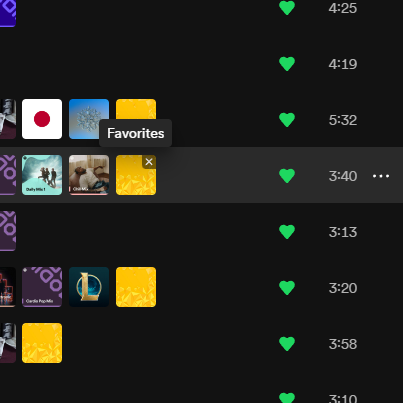
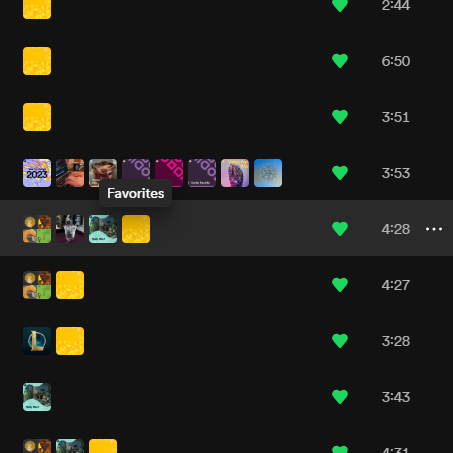
Add context menu for removing tracks and shrink labels

diff --git a/src/app.tsx b/src/app.tsx
@@ -1,7 +1,7 @@
 import React, { useState } from 'react';
 import ReactDOM from 'react-dom';
 import './app.css'
-import { getTrackUriToPlaylistData } from "./playlist";
+import { getTrackUriToPlaylistData, getAllPlaylists } from "./playlist";
 import { removeTrackFromPlaylist } from "./api";
 
 let originalTracklistHeaderCss = null;
@@ -12,6 +12,7 @@ let mainElementObserver = null;
 let tracklists = [];
 let oldTracklists = [];
 let trackUriToPlaylistData = {};
+let contents = null;
 let playlistUpdated = false;
 let highlightTrack = null;
 let highlightTrackPath = null;
@@ -84,21 +85,12 @@ function updateTracklist() {
                 }
             }
             if (!labelColumn) {
+
                 // Add column for labels
                 let lastColumn = track.querySelector(".main-trackList-rowSectionEnd");
                 let colIndexInt = parseInt(lastColumn.getAttribute("aria-colindex"));
                 lastColumn.setAttribute("aria-colindex", (colIndexInt + 1).toString());
                 labelColumn = document.createElement("div");
-
-                const iconData = '<svg xmlns="http://www.w3.org/2000/svg" height="1em" viewBox="0 0 384 512"><!--! Font Awesome Free 6.4.2 by @fontawesome - https://fontawesome.com License - https://fontawesome.com/license (Commercial License) Copyright 2023 Fonticons, Inc. --><path d="M342.6 150.6c12.5-12.5 12.5-32.8 0-45.3s-32.8-12.5-45.3 0L192 210.7 86.6 105.4c-12.5-12.5-32.8-12.5-45.3 0s-12.5 32.8 0 45.3L146.7 256 41.4 361.4c-12.5 12.5-12.5 32.8 0 45.3s32.8 12.5 45.3 0L192 301.3 297.4 406.6c12.5 12.5 32.8 12.5 45.3 0s12.5-32.8 0-45.3L237.3 256 342.6 150.6z"/></svg>';
-                const RemoveIcon = Spicetify.React.memo(() =>
-                    <Spicetify.ReactComponent.IconComponent semanticColor='textBase'
-                        dangerouslySetInnerHTML={{ __html: iconData }}
-                        width="14px"
-                        height="14px"
-                        viewBox='0 0 14 14'
-                    />
-                );
 
                 ReactDOM.render(
                     <div className="spicetify-playlist-labels-labels-container">
@@ -115,35 +107,19 @@ function updateTracklist() {
                                         placement="top"
                                     >
                                         <div className="spicetify-playlist-labels-label-container">
-                                            <img width="40px" style={{
+                                            <img width="28px" style={{
                                                 borderRadius: '4px',
                                                 cursor: 'pointer'
                                             }} src={playlistData.image} onClick={(e: Event) => {
-                                                    e.stopPropagation()
-                                                    const path = Spicetify.URI.fromString(playlistData.uri)?.toURLPath(true);
-                                                    highlightTrack = trackUri;
-                                                    highlightTrackPath = path;
-                                                    if (path) Spicetify.Platform.History.push({
-                                                        pathname: path,
-                                                        search: `?uid=${playlistData.trackUid}`
-                                                    });
-                                            }}/>
-                                            { playlistData.canEdit ?
-                                                <Spicetify.ReactComponent.TooltipWrapper
-                                                    label={`Remove from ${playlistData.name}`}
-                                                    placement="top"
-                                                >
-                                                    <button onClick={(e: Event) => {
-                                                        e.stopPropagation();
-                                                        removeTrackFromPlaylist(playlistData.uri, trackUri)
-                                                        trackUriToPlaylistData[trackUri] = trackUriToPlaylistData[trackUri].filter((otherPlaylistData) => otherPlaylistData.name !== playlistData.name);
-                                                        playlistUpdated = true;
-                                                        updateTracklist();
-                                                    }}>
-                                                        <RemoveIcon/>
-                                                    </button>
-                                                </Spicetify.ReactComponent.TooltipWrapper>
-                                            : null}
+                                                e.stopPropagation()
+                                                const path = Spicetify.URI.fromString(playlistData.uri)?.toURLPath(true);
+                                                highlightTrack = trackUri;
+                                                highlightTrackPath = path;
+                                                if (path) Spicetify.Platform.History.push({
+                                                    pathname: path,
+                                                    search: `?uid=${playlistData.trackUid}`
+                                                });
+                                            }} />
                                         </div>
                                     </Spicetify.ReactComponent.TooltipWrapper>
                                 );
@@ -154,7 +130,7 @@ function updateTracklist() {
 
                 labelColumn.setAttribute("aria-colindex", colIndexInt.toString());
                 labelColumn.role = "gridcell";
-                labelColumn.style.display = "flex";
+                labelColumn.style.display = "grid";
                 labelColumn.classList.add("main-trackList-rowSectionVariable");
                 labelColumn.classList.add("spicetify-playlist-labels");
                 track.insertBefore(labelColumn, lastColumn);
@@ -184,6 +160,81 @@ async function observerCallback() {
     }
 }
 
+let registeredMenus = [];
+
+async function updateContextMenu() {
+    while ((registeredMenu = registeredMenus.pop()))
+        registeredMenus.deregister();
+
+    // Add context menu
+    function isTrackInOtherPlaylist(uri) {
+        if (!Spicetify.URI.isTrack(uri[0])) return;
+        return trackUriToPlaylistData[uri]?.some((playlistData) => {
+            const playlistId = playlistUriToPlaylistId(playlistData.uri);
+            return playlistData.canEdit && Spicetify.Platform.History.location.pathname !== `/playlist/${playlistId}`;
+        });
+    }
+
+    const removeSubMenu = new Spicetify.ContextMenu.SubMenu(
+        "Remove from playlist",
+        [],
+        isTrackInOtherPlaylist,
+        false,
+    );
+
+    removeSubMenu._element.addEventListener("mouseenter", () => {
+        const tippys = document.querySelectorAll("[id*=tippy]")
+        if (tippys.length <= 1) return;
+        tippys[tippys.length - 1].remove();
+        const node = document.querySelectorAll(".main-contextMenu-menuItemButton[aria-expanded=true]")[0];
+        node?.setAttribute("aria-expanded", false);
+    })
+
+    removeSubMenu.register();
+    registeredMenus.push(removeSubMenu);
+
+    function addMenuItems(subMenu, item) {
+        if (item.type === 'folder') {
+            const playlists = getAllPlaylists(item);
+            const newSubMenu = new Spicetify.ContextMenu.SubMenu(
+                item.name,
+                [],
+                (uri) => {
+                    const trackPlaylists = trackUriToPlaylistData[uri];
+                    return trackPlaylists.some((playlist) => playlists.some(other => other.uri === playlist.uri && playlist.canEdit));
+                },
+                false
+            );
+            subMenu.addItem(newSubMenu);
+            item.items.forEach((item) => { addMenuItems(newSubMenu, item); });
+            registeredMenus.push(newSubMenu);
+            return;
+        }
+
+        if (item.type !== 'playlist' || !(item.canAdd && item.canRemove)) return;
+
+        const subMenuItem = new Spicetify.ContextMenu.Item(
+            item.name,
+            (uri) => {
+                removeTrackFromPlaylist(item.uri, uri)
+                trackUriToPlaylistData[uri] = trackUriToPlaylistData[uri].filter((otherPlaylistData) => otherPlaylistData.uri !== item.uri);
+                updateContextMenu();
+                playlistUpdated = true;
+                updateTracklist();
+            },
+            (uri) => {
+                return trackUriToPlaylistData[uri].some((playlistData) => playlistData.uri === item.uri && playlistData.canEdit);
+            },
+            null,
+            false
+        );
+        subMenu.addItem(subMenuItem);
+        registeredMenus.push(subMenuItem);
+    }
+
+    contents.items.forEach((item) => { addMenuItems(removeSubMenu, item); });
+}
+
 async function main() {
     while (!Spicetify?.showNotification) {
         await new Promise(resolve => setTimeout(resolve, 100));
@@ -193,7 +244,8 @@ async function main() {
 
     await Spicetify.Platform.RootlistAPI._events._emitter.addListener('update', () => {
         getTrackUriToPlaylistData().then((data) => {
-            trackUriToPlaylistData = data;
+            [trackUriToPlaylistData, contents] = data;
+            updateContextMenu();
             playlistUpdated = true;
             updateTracklist();
         });
@@ -210,7 +262,8 @@ async function main() {
     const iconHTML = `<svg data-encore-id="icon" role="img" viewBox="0 0 16 16" class="Svg-img-icon-small">${Spicetify.SVGIcons["spotify"]}</svg>`;
     const showAllPlaylistsButton = new Spicetify.Playbar.Button("Show All Saved Playlists", iconHTML, handleButtonClick, false, showAllPlaylists);
 
-    trackUriToPlaylistData = await getTrackUriToPlaylistData();
+    [trackUriToPlaylistData, contents] = await getTrackUriToPlaylistData();
+    updateContextMenu();
 
     mainElementObserver = new MutationObserver(() => {
         updateTracklist();

diff --git a/src/playlist.tsx b/src/playlist.tsx
@@ -1,13 +1,13 @@
 import {getContents, getPlaylistItems, getPlaylistColor} from "./api";
 
-function getAllPlaylists(contents) {
+export function getAllPlaylists(contents) {
     let playlists = [];
 
-    function traverse(folder) {
-        if (folder.type === 'playlist') {
-            playlists.push(folder);
-        } else if (folder.type === 'folder' && folder.items) {
-            folder.items.forEach(item => traverse(item));
+    function traverse(item) {
+        if (item.type === 'playlist') {
+            playlists.push(item);
+        } else if (item.type === 'folder' && item.items) {
+            item.items.forEach(i => traverse(i));
         }
     }
 
@@ -21,6 +21,7 @@ export async function getTrackUriToPlaylistData() {
     const playlists = getAllPlaylists(contents);
     const playlistItems = await Promise.all(playlists.map((playlist) => getPlaylistItems(playlist.uri)));
     const trackUriToPlaylistData = {};
+
     playlistItems.forEach((playlistItems, index) => {
         playlistItems.forEach((playlistItem) => {
             const trackUri = playlistItem.uri;
@@ -38,5 +39,5 @@ export async function getTrackUriToPlaylistData() {
             }
         });
     });
-    return trackUriToPlaylistData;
+    return [trackUriToPlaylistData, contents];
 }

diff --git a/src/app.css b/src/app.css
@@ -2,43 +2,13 @@
     height: var(--row-height);
     align-items: center;
     display: flex;
-    flex-wrap: wrap;
     overflow: hidden;
-    gap: 7px;
+    gap: 5px;
 }
 
 .spicetify-playlist-labels-label-container {
     position: relative;
-    height: 40px;
-}
-
-.spicetify-playlist-labels-label-container button {
-    visibility: hidden;
-    position: absolute;
-    top: 0;
-    right: 0;
-    width: 14px;
-    height: 14px;
-    background: rgba(0, 0, 0, 0.5);
-    cursor: pointer;
-    border: 0;
-    border-top-right-radius: 4px;
-    border-bottom-left-radius: 4px;
-    vertical-align: top;
-}
-
-.spicetify-playlist-labels-label-container:hover button {
-    visibility: visible;
-}
-
-.spicetify-playlist-labels-label-container button:hover {
-    background-color: var(--text-negative);
-}
-
-.spicetify-playlist-labels-label-container button svg {
-    padding: 1px;
-    vertical-align: top;
-    fill: white;
+    height: 28px;
 }
 
 .spicetify-playlist-labels-label-container > img {

diff --git a/README.md b/README.md
@@ -1,6 +1,6 @@
 # Spicetify Playlist Labels
 
-Adds playlist labels to your tracklist, indicating the playlist(s) in which a track is included. Clicking labels jumps to the playlist and clicking the 'X' icon removes the track from the playlist.
+Adds playlist labels to your tracklist, indicating the playlists in which a track is included. Clicking a label jumps to the playlist.
 
 ![Screenshot](screenshot.png)
 
